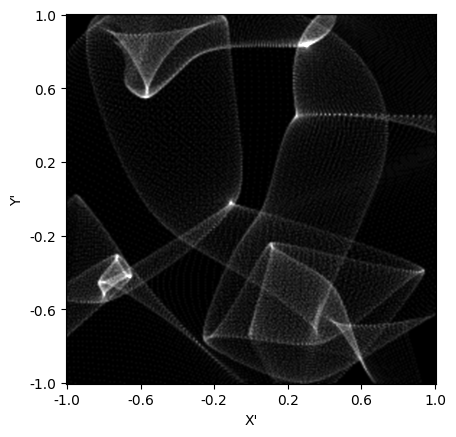
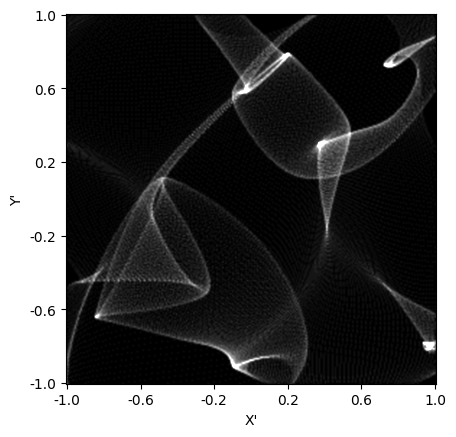
Swapped inverse jacobian with jacobian

diff --git a/farfield.py b/farfield.py
@@ -23,8 +23,7 @@ Z = np.real(complex_amplitude / mean_sqr_amplitude) / FLAT
 O1, O2 = np.gradient(- Z, x, y)
 O1x, O1y = np.gradient(O1, x, y)
 O2x, O2y = np.gradient(O2, x, y)
-Jacobian = O1x * O2y - O1y * O2x
-invJacobian = np.abs(1 / Jacobian)
+Jacobian = np.abs(O1x * O2y - O1y * O2x)
 
 # Far field intensity
 I = np.zeros((N, N))
@@ -49,7 +48,7 @@ ax1.set_xlabel('X')
 ax1.set_ylabel('Y')
 
 fig2, ax2 = plt.subplots()
-im2 = ax2.imshow(invJacobian, cmap='gray', clim=(0, 200), origin='lower')
+im2 = ax2.imshow(Jacobian, cmap='gray_r', clim=(0, 1e-2), origin='lower')
 ax2.set_xlabel('X')
 ax2.set_ylabel('Y')
 
@@ -64,4 +63,7 @@ for ax in axes:
     ax.set_xticks(np.arange(0, N, step), [f'{i:.1f}' for i in x[::step]])
     ax.set_yticks(np.arange(0, N, step), [f'{i:.1f}' for i in y[::step]])
 
+fig1.savefig('images/wave_profile.png', bbox_inches='tight')
+fig2.savefig('images/singularities.png', bbox_inches='tight')
+fig3.savefig('images/intensity.png', bbox_inches='tight')
 plt.show()
